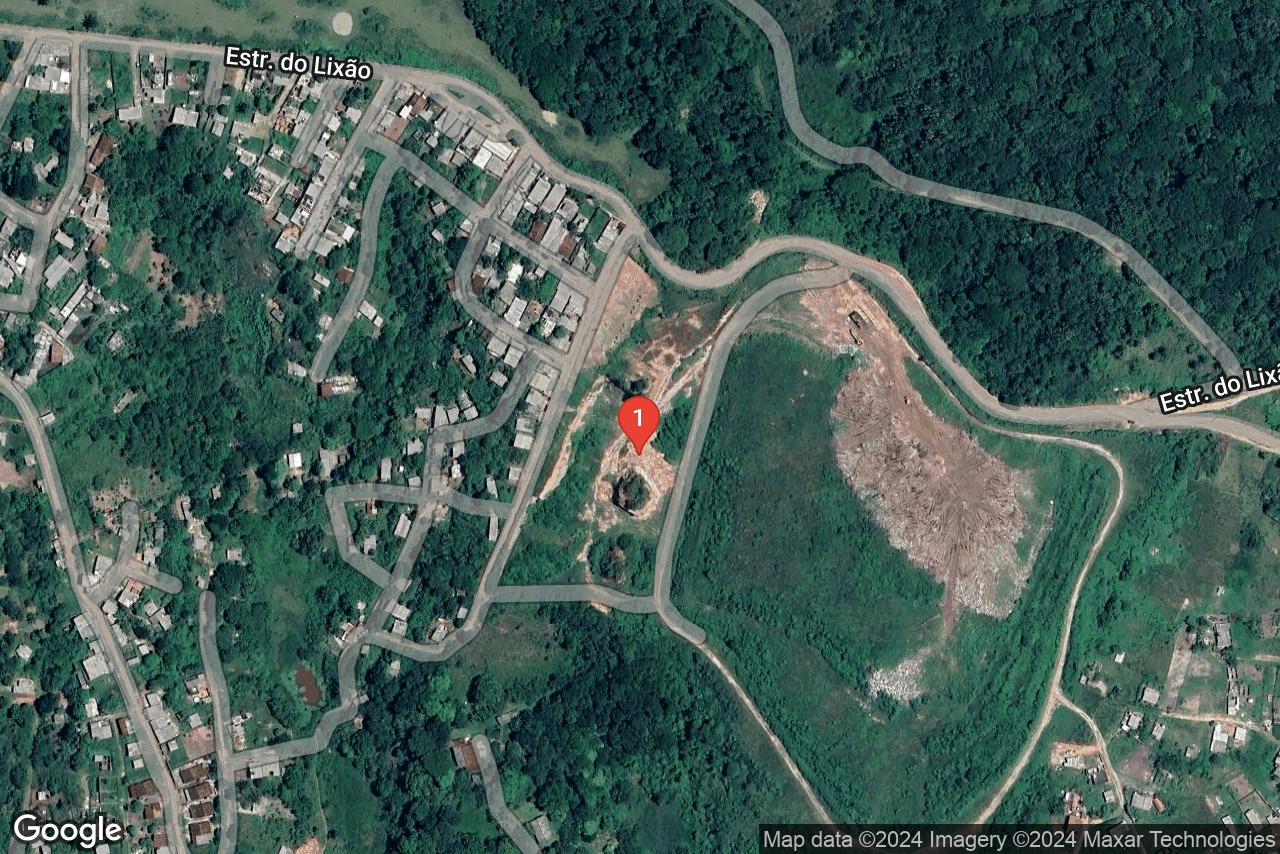
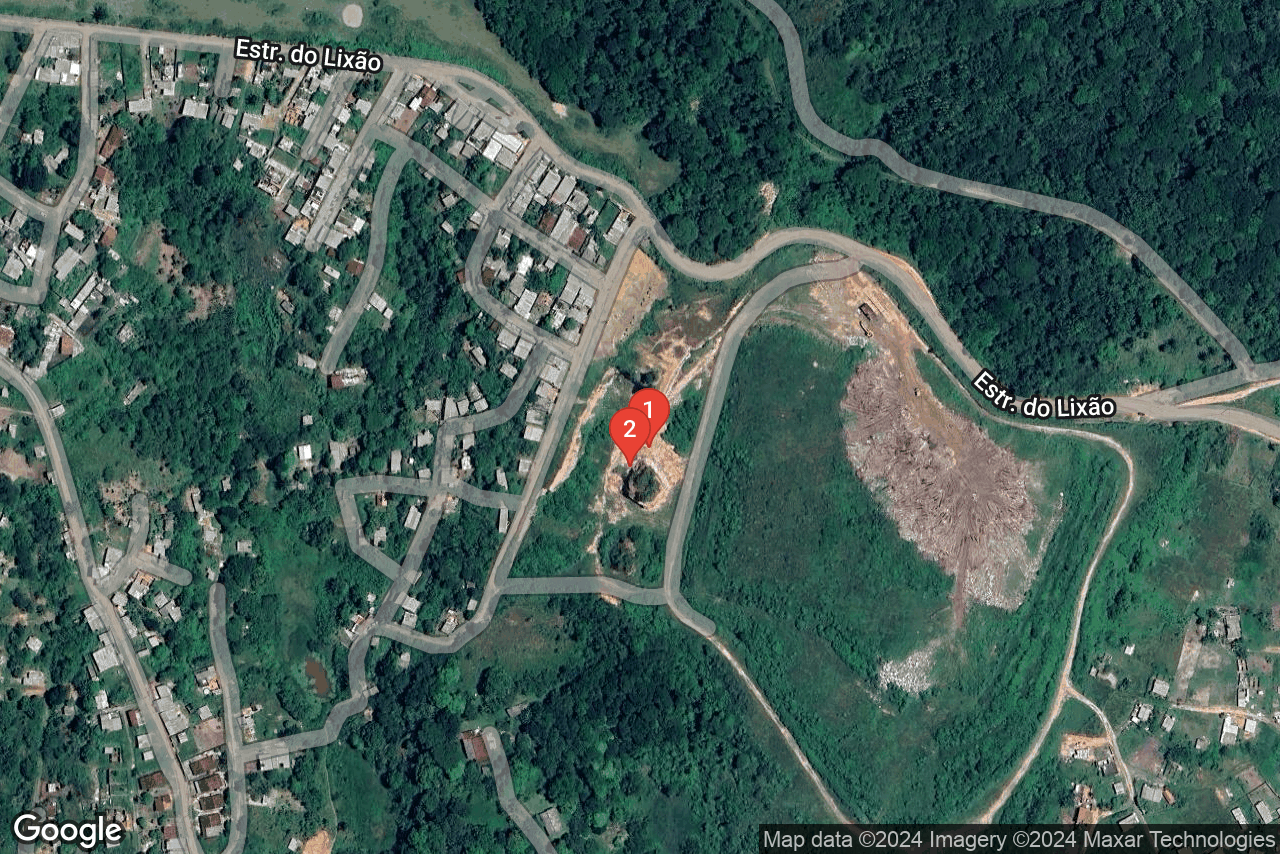
Ajustes em GetMap
Ajustes em GetMap

diff --git a/Modules/MapImport/GetMap.py b/Modules/MapImport/GetMap.py
@@ -4,58 +4,81 @@ import sys
 from pathlib import Path
 from Classes import Local
 import numpy as np
+import requests
 
 
-def getMap(coordsStr:str, zoom:int = np.NaN, savePath:Path = Path()):
-# COORDSSTR PARA DICIONÁRIO!
-    while True:
-
-        coords = list(coordsStr.replace(' ','').split(','))
-        try:
-            for coord in coords:
-                float(coord)
-        except ValueError:
-            coordsStr = input("As coordenadas não foram digitadas no formato correto.\nDigite-as novamente (Ex.: -5.653423,-34.423564):")
-            coords = list(coordsStr.replace(' ','').split(','))
-        else:
-            break
-            
-    coords = tuple(coords)
-
-#========================================================================================================
+def getMap(coordsDic:dict, savePath:Path or str, zoom:int = np.nan, ):
     
+    # INÍCIO DOS TESTES DE CONSISTÊNCIA DOS ARGUMENTOS DA FUNÇÃO =================================
+
+    # Se as coordenadas estão escritas no padrão
+    try:
+        assert len(coordsDic) > 0 and isinstance(coordsDic, dict)
+    except AssertionError:
+        sys.exit("O argumento das coordenadas deve ser um dicionário não vazio. Corrija e reexecute.")
+        
+    for item in coordsDic:
+    
+        coordsStr = coordsDic[item]
+        coords = list(coordsStr.replace(' ','').split(','))
+        
+        while True:
+            try:
+                for coord in coords:
+                    float(coord)
+            except ValueError:
+                coordsStr = input(f"As coordenadas do local {item} não foram digitadas no formato correto.\nDigite-as novamente (Ex.: -5.653423,-34.423564):")
+                coords = list(coordsStr.replace(' ','').split(','))
+            else:
+                coordsDic[item] = coordsStr
+                break
+    
+    # Se zoom é número natural
+    try:
+        int(zoom)
+        assert int(zoom) > 0 and float(zoom) % 1 == 0
+    except (ValueError, TypeError, AssertionError):
+        sys.exit(f"O valor de zoom ({zoom}) não foi digitado corretamente. Corrija no arquivo 'configs.env'.\nO programa será encerrado.")
+    
+    # Se o diretório é válido
+    try:
+        assert Path(savePath).parent.is_dir()
+    except AssertionError:
+        sys.exit(f"O caminho para o diretório do arquivo \"{savePath}\" não é válido. Corrija e reexecute.")
+    
+    url = environ.get('MAPS_URL')
+    
+    # FINAL DOS TESTES DE CONSISTÊNCIA DOS ARGUMENTOS DA FUNÇÃO =================================
+
     payload = {"size": "640x427",
        "scale": "2",
        "format": "jpeg",
        "maptype": "hybrid",
        "style": "feature:poi|visibility:off",
-       "markers": [f"color:red|label:{place.locId}|size:mid|{place.coord[0]},{place.coord[1]}" for place in places],  # PARA DICIONÁRIO!
+       "markers": [f"color:red|label:{item}|size:mid|{coordsDic[item]}" for item in coordsDic],
        "key": environ.get('MAPS_API_KEY')
     }
     
-    url = environ.get('MAPS_URL')
-
-    if zoom is not np.NaN:
+    if zoom is not np.nan:
         payload["zoom"] = zoom
-        figData requests.get(url, params=payload).content
-            
-    elif zoom is np.NaN and True:   #Substituir True por um teste se tamanho o dicionário coordsStr é maior que 1.
-        figData requests.get(url, params=payload).content
         
-    else:
+    elif (zoom is np.NaN and len(coordsDic) == 1):
         sys.exit("Para obter mapa com apenas um marcador, o zoom deve ser informado.\nO programa será fechado.")
+
+    figData = requests.get(url, params=payload).content
 #===========================================================================================================================
 
-    with open(savePath., 'wb') as mapa:
+    with open(savePath, 'wb') as mapa:
         mapa.write(figData)
 
 
 if __name__ == "__main__":
 
     load_dotenv(Path(__file__).parent.joinpath('configs.env'))
-
-    coordsStr = input("Insira as coordenadas no formato do Google Maps: ")
     
-    getMap(coordsStr, environ.get('LOW_ZOOM'), Path("lowzoom.jpg"))
-    getMap(coordsStr, environ.get('HIGH_ZOOM'), Path("highzoom.jpg"))
+    numCoords = input("Insira o número de locais a serem
+    coordsStr = {1:input("Insira as coordenadas no formato do Google Maps: "), 2:input("Insira as coordenadas no formato do Google Maps: ")}
+    
+    getMap(coordsStr, Path("lowzoom.jpg"), environ.get('LOW_ZOOM'))
+    getMap(coordsStr, Path("highzoom.jpg"), environ.get('HIGH_ZOOM'))
 
